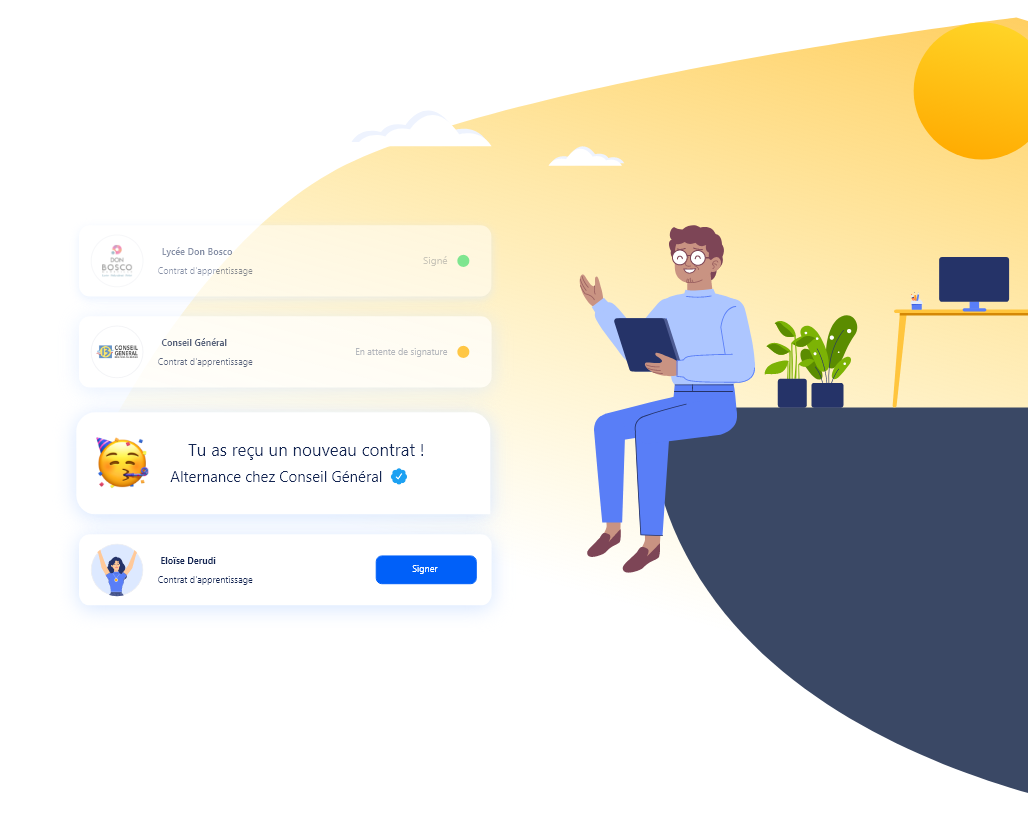
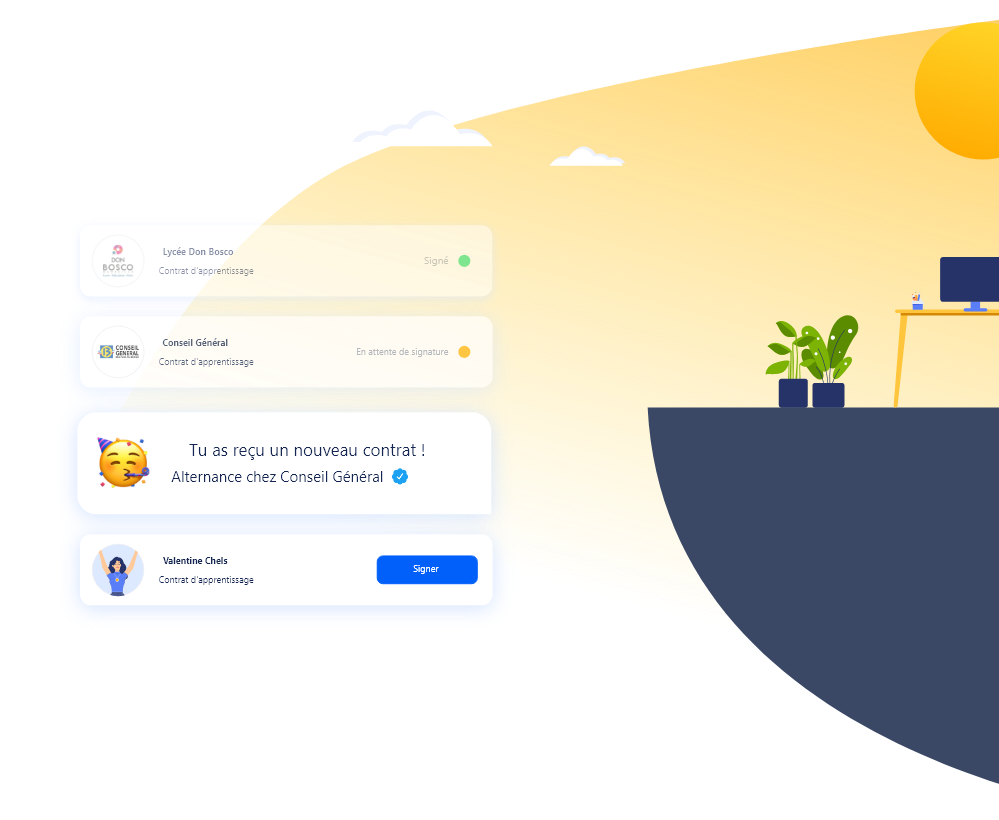
feat: animation index with gsap

diff --git a/pages/index.js b/pages/index.js
@@ -1,4 +1,4 @@
-import { useState } from 'react'
+import { useState, useEffect } from 'react'
 import { Button, Box, Stack, Container, TextField, Typography, Select, MenuItem } from '@mui/material/';
 import TextSnippetIcon from '@mui/icons-material/TextSnippet';
 import Newsletter from '../components/Newsletter';
@@ -9,12 +9,61 @@ import IndexCardHorizon from '../components/index/CardHorizon'
 import Preinscription from '../components/Preinscription'
 import Partenaires from '../components/Partenaires'
 
+
 export default function Home() {
+
   const [valueType, setValueType] = useState("alternance");
   const [valuePlace, setValuePlace] = useState("company");
 
   const handleChangeType = (event) => setValueType(event.target.value);
   const handleChangePlace = (event) => setValuePlace(event.target.value);
+  useEffect(() => {
+  gsap.to(".box1", {
+    scrollTrigger: ".boxContainer", scrub: true,
+    x: '0'
+  });
+  gsap.to(".box2", {
+    scrollTrigger: ".boxContainer", 
+    y: '0'
+  });
+  gsap.to(".box3", {
+    scrollTrigger: ".boxContainer", 
+    x: '0'
+  });
+  gsap.to(".typo", {
+    scrollTrigger: ".boxContainer2", 
+
+    y: '0'
+  });
+  gsap.to(".horizon", {
+    scrollTrigger: ".boxContainer2", 
+
+    y: '0'
+  });
+  gsap.to(".boxContainer2", {
+    scrollTrigger: ".bonhomme", 
+
+    x: '0'
+  });
+  gsap.to(".bonhomme", {
+    scrollTrigger: ".bonhomme", 
+    delay: 0.5,
+    x: '-80'
+  });
+  gsap.to(".dashboard", {
+    scrollTrigger: ".boxContainer3", 
+
+    y: '0'
+  });
+  gsap.to(".preinscription", {
+    scrollTrigger: ".boxContainer4", 
+    y: '0'
+  });
+  gsap.to(".partenaires", {
+    scrollTrigger: ".boxContainer5", 
+    y: '0'
+  });
+}, []);
 
   return (
     <>
@@ -69,25 +118,28 @@ export default function Home() {
           </Stack>
         </Container>
 
-        <Container>
-          <Stack spacing={5} direction={{ xs: 'column', md: 'row' }}>
-            <IndexCard icon='explore' title='Choisissez votre voie' description='Explorez les trajectoires de formation
+        <Container sx={{overflow: "hidden", p: 3}}>
+          <Stack  spacing={5} direction={{ xs: 'column', md: 'row' }}>
+            <Box className='box1' sx={{transform: 'translateX(-500px)'}}>
+            <IndexCard className='box1' icon='explore' title='Choisissez votre voie' description='Explorez les trajectoires de formation
             et candidatez en quelques clics dans 
             les écoles qui vous correspondent.' />
+            </Box>
+            <Box className='box2' sx={{transform: 'translateY(+500px)'}} >
             <IndexCard icon='work' title='Trouvez votre emploi' description="Validez vos diplômes avec nos 
               entreprises partenaires qui proposent des 
-              stages ou des alternances toute l'année." />
-            <IndexCard icon='insights' title='Soyez accompagné' description="Linkpick est ses partenaires s'engagent 
+              stages ou des alternances toute l'année." /></Box>
+              <Box className='box3' sx={{transform: 'translateX(+500px)'}} >
+            <IndexCard  icon='insights' title='Soyez accompagné' description="Linkpick est ses partenaires s'engagent 
               à vous accompagner et à vous épauler
-              tout au long de votre parcours d'étudiant." />
+              tout au long de votre parcours d'étudiant." /></Box>
           </Stack>
         </Container>
       </Box>
-      <Stack spacing={5} direction={{ xs: 'column', md: 'row' }} sx={styles.boxContainer}>
-
+      <Stack className='boxContainer' spacing={5} direction={{ xs: 'column', md: 'row' }} sx={styles.boxContainer}>
         <Stack spacing={3} width={{ xs: '90%', md: '40%' }} ml={5}>
-          <Container>
-            <Typography variant='h4' mb={3}>En quelques clics ...</Typography>
+          <Container className='boxContainer2' sx={{transform: 'translateX(-1000px)'}}>
+            <Typography className='typo' sx={{transform: 'translateY(-1000px)'}} variant='h4' mb={3}>En quelques clics ...</Typography>
             <Stack spacing={3}>
               <IndexCardHorizon icon='person' title='Plus de CV,' subtitle='partagez votre profil' description="Validez vos diplômes avec nos entreprises
             partenaires qui proposent des stages ou des
@@ -101,24 +153,24 @@ export default function Home() {
             </Stack>
           </Container>
         </Stack>
-        <Stack width='60%' sx={styles.boxIllustration} />
+        <Stack width='60%' sx={styles.boxIllustration} className='boxContainer2'><Box className='bonhomme' sx={{transform: 'translateX(1000px)'}} ><img height= 'auto' width= '50%' src="/bonhomme.png"></img></Box></Stack>
       </Stack>
-      <Stack align='center' sx={[styles.boxContainer, styles.printsContainer]}>
-        <Container>
+      <Stack  align='center' sx={[styles.boxContainer, styles.printsContainer]}>
+        <Container className='boxContainer3' >
         <Stack sx={{maxWidth: { xs: '90%', md: '60%' }}}>
           <Typography align='center' variant='h5'>Concentrez-vous sur l'essentiel avec Linkpick</Typography>
           <Typography align='center'>La solution Linkpick est conçue pour piloter facilement et au même endroit sa vie étudiante.
             Gagnez du temps pour les échanges qui comptent vraiment.</Typography>
         </Stack>
-        <img src='/dashboard.png' width='80%' ></img>
+        <Box  className='dashboard' sx={{transform: 'translateY(+1000px)'}} ><img width="100%" src='/dashboard.png' ></img></Box>
         </Container>
       </Stack>
-      <Stack>
+      <Stack  className='boxContainer4' sx={{overflow: "hidden"}}>
         <Typography align='center' variant='h5'>Construisez enfin votre carrière au rythme de votre parcours</Typography>
-        <Preinscription/>
+        <Box className="preinscription" sx={{transform: 'translateY(+500px)'}}><Preinscription/></Box>
       </Stack>
-      <Stack>
-        <Partenaires/>
+      <Stack className='boxContainer5' sx={{overflow: "hidden"}}>
+        <Box className="partenaires" sx={{transform: 'translateY(+500px)'}}><Partenaires/></Box>
       </Stack>
       <Stack>
         <Newsletter/>
@@ -126,6 +178,10 @@ export default function Home() {
     </>
 
   )
+
+  
+ 
+
 }
 
 
@@ -139,7 +195,7 @@ const styles = {
     right: 0,
     bottom: '30%',
     background: "no-repeat url('/home.png')",
-    backgroundPosition: 'center',
+    backgroundPosition: 'bottom',
     backgroundSize: "cover",
     zIndex: -1
   },
@@ -166,6 +222,7 @@ const styles = {
     pb: 10,
     minHeight: "100vh",
     display: 'flex',
+    overflow: "hidden"
   },
   printsContainer: {
     background: "no-repeat url('/prints.png')",
@@ -174,8 +231,14 @@ const styles = {
   },
   boxIllustration: {
     flex: 1,
+    overflow: "hidden",
     background: "no-repeat url('/sun-illustration.png')",
     backgroundPosition: 'right',
     backgroundSize: "contain",
+    transform: 'translateX(500px)',
+    display: {md: "flex", xs: "none"},
+    alignItems: 'end',
+    justifyContent: "center",
+
   }
 };

diff --git a/components/Layout.js b/components/Layout.js
@@ -4,6 +4,13 @@ import NavBar from "./NavBar";
 import NavTest from "./NavTest";
 import Footer from "./Footer";
 import Foote from "./Foote";
+import { gsap } from "gsap/dist/gsap";
+import { ScrollTrigger } from "gsap/dist/ScrollTrigger";
+
+if (typeof window !== "undefined") {
+  gsap.registerPlugin(ScrollTrigger);
+}
+
 
 const BodyContainer = styled("div")({
   display: "flex",
@@ -17,7 +24,8 @@ const Layout = ({ children }) => {
   return (
     <BodyContainer>
       {/* <NavBar /> */}
-      <NavTest />
+      {/* <NavTest /> */}
+  
       <Box sx={{ flexGrow: 1, minHeight: "60vh" }}>{children}</Box>
       <br></br>
       <br></br>
@@ -31,6 +39,8 @@ const Layout = ({ children }) => {
           padding: 0px;
         }
       `}</style>
+      <script src="https://cdnjs.cloudflare.com/ajax/libs/gsap/3.10.0/gsap.min.js"></script>
+      <script src="https://cdnjs.cloudflare.com/ajax/libs/gsap/3.10.0/ScrollTrigger.min.js"></script>
     </BodyContainer>
   );
 };
